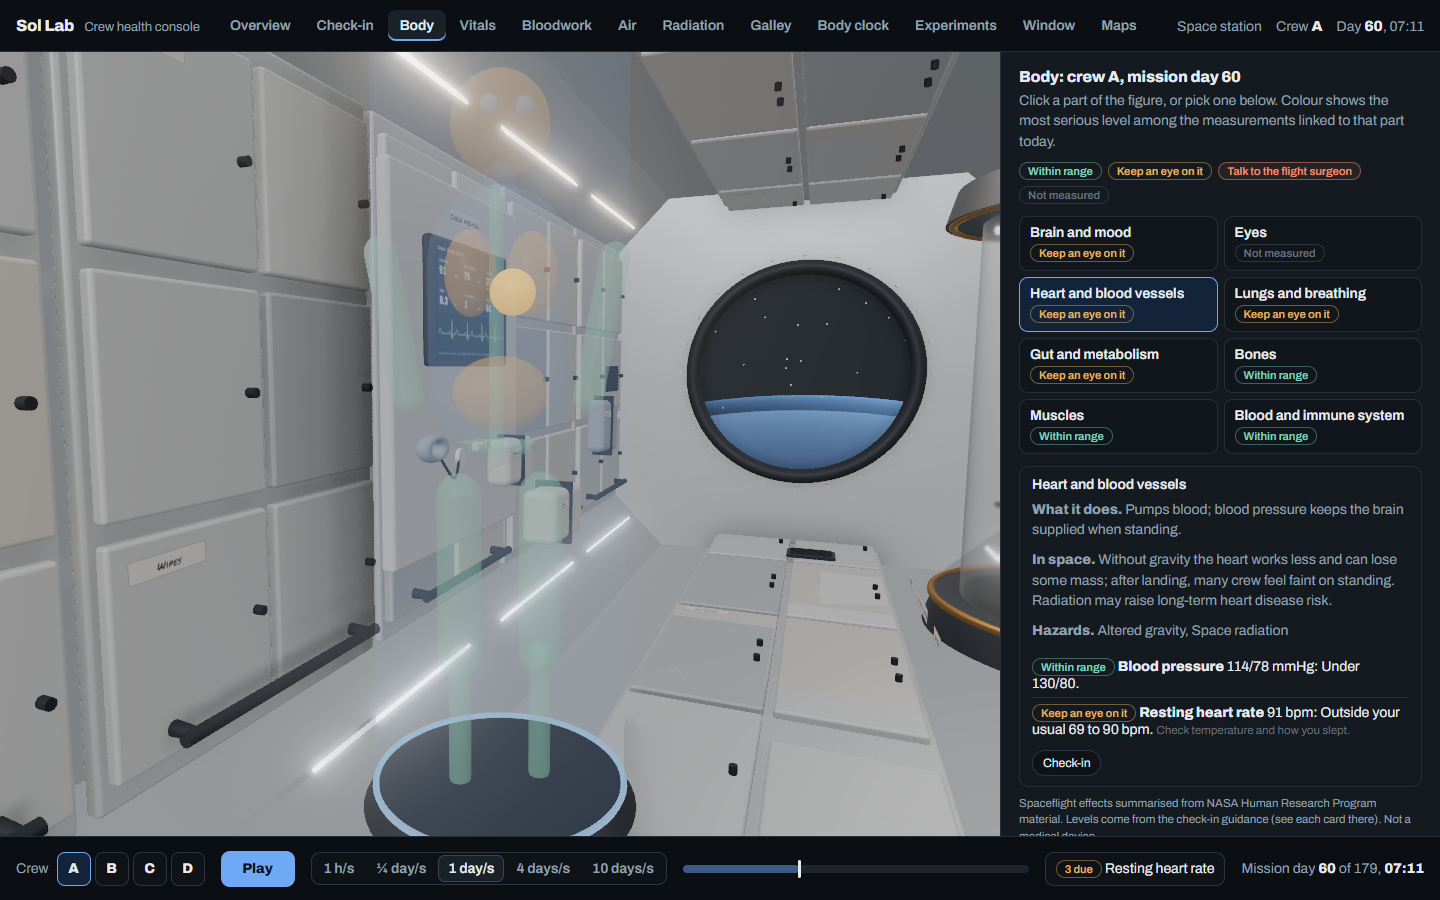
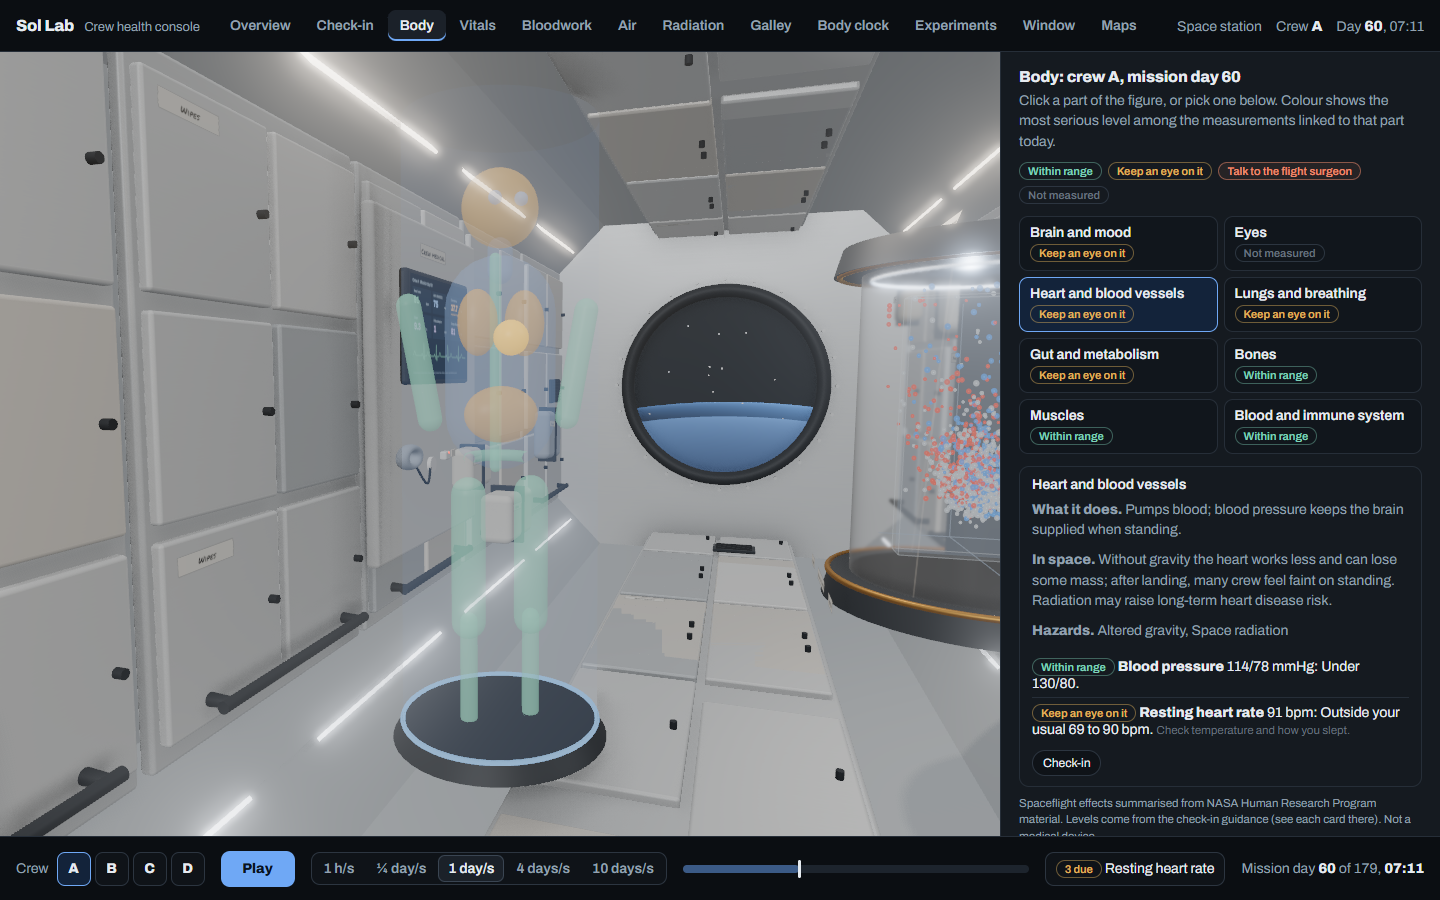
Body figure: more solid against the white module walls

diff --git a/lab/src/scene/body.js b/lab/src/scene/body.js
@@ -54,7 +54,7 @@ export function buildBody(mats) {
   add("immune", cap(0.024, 0.22), -0.16, 0.12, 0, 0, 0.18);     // arms carry the blood draws
   add("immune", cap(0.024, 0.22), 0.16, 0.12, 0, 0, -0.18);
   // translucent torso shell so the organs read as inside a body
-  const shell = new THREE.Mesh(cap(0.11, 0.2), new THREE.MeshStandardMaterial({ color: 0x9cc4ff, emissive: 0x6fa8f5, emissiveIntensity: 0.15, transparent: true, opacity: 0.12, depthWrite: false }));
+  const shell = new THREE.Mesh(cap(0.11, 0.2), new THREE.MeshStandardMaterial({ color: 0x9cc4ff, emissive: 0x6fa8f5, emissiveIntensity: 0.3, transparent: true, opacity: 0.22, depthWrite: false }));
   shell.position.y = 0.12;
   figure.add(shell);
   const neck = new THREE.Mesh(cap(0.025, 0.04), shell.material);
@@ -75,8 +75,8 @@ export function buildBody(mats) {
     if (!reduced) figure.rotation.y = Math.sin(t * 0.35) * 0.5;
     for (const [key, p] of Object.entries(parts)) {
       const on = key === selected;
-      p.material.opacity = selected ? (on ? 0.9 : 0.3) : 0.55;
-      p.material.emissiveIntensity = on ? 0.9 + (reduced ? 0 : 0.25 * Math.sin(t * 4)) : 0.35;
+      p.material.opacity = selected ? (on ? 0.95 : 0.55) : 0.75;
+      p.material.emissiveIntensity = on ? 1.0 + (reduced ? 0 : 0.25 * Math.sin(t * 4)) : 0.5;
     }
     if (parts.heart && !reduced) parts.heart.meshes[0].scale.setScalar(1 + 0.08 * Math.max(0, Math.sin(t * 7)));
   }
